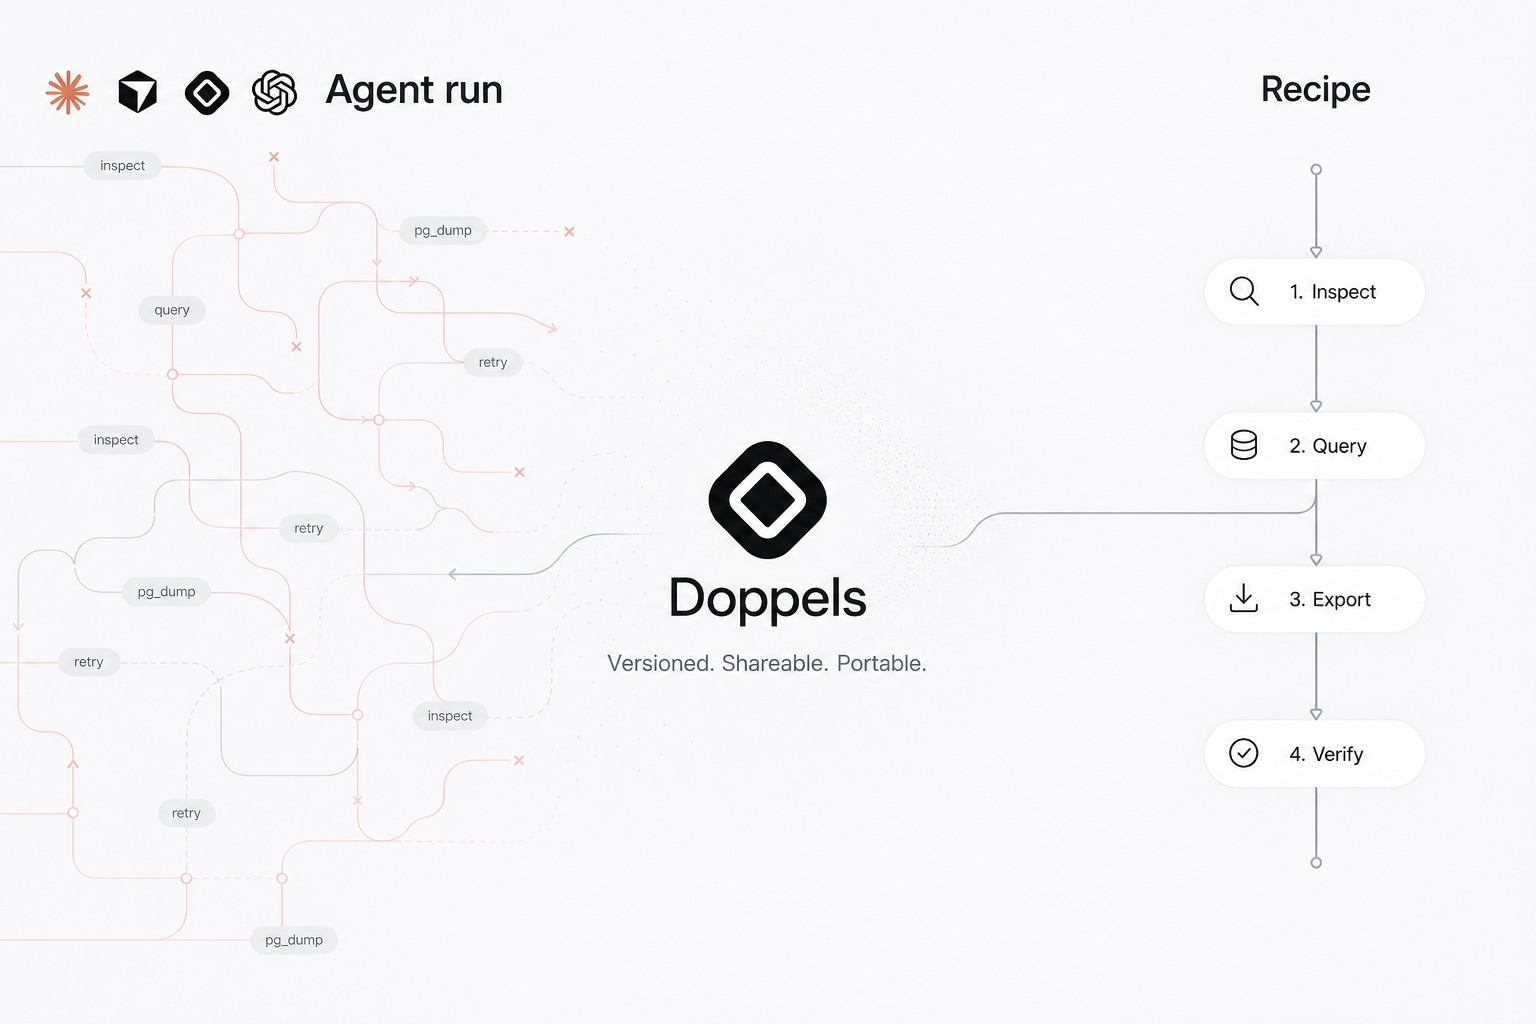
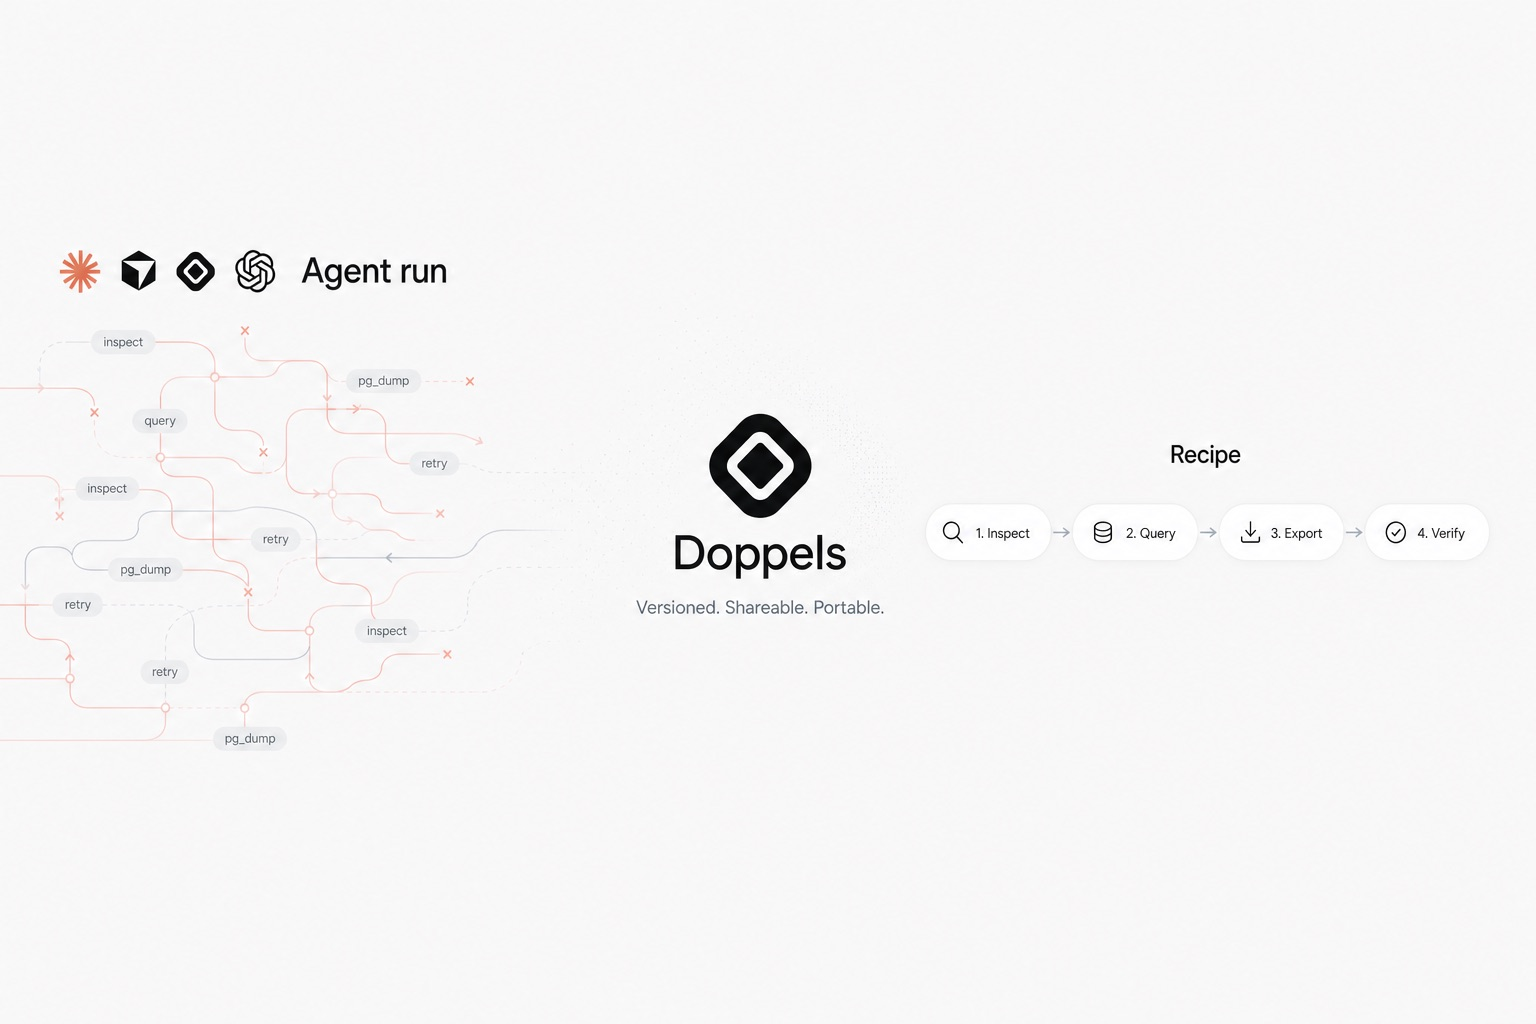
Docs/readme freeze replay (#29)
* docs: rewrite README for freeze and replay

Product README now shows Capability + Recipe, real install, and
docs.doppels.so links with diagrams for the full flow.

* docs: two-panel hero and Share as day-one

Hero is agent session plus local replay. Share copy matches GA, not preview.

* docs: swap README hero for freeze poster

* feat(cli): expose Share as public functionality

* docs: use horizontal Recipe-row README hero

---------

diff --git a/apps/cli/internal/command/listen.go b/apps/cli/internal/command/listen.go
@@ -56,8 +56,9 @@ func writeNodeUsage(writer io.Writer) {
 	fmt.Fprintln(writer, "On each Request: [a]pprove  [r]eject  [s]kip  [b]ackground")
 }
 
-// runListen attaches to Shares already created by this Identity (console or
-// `doppels share`). It never creates Shares — Share stays one-shot.
+// runListen powers `doppels node up`: it attaches to Shares already created by
+// this Identity (console or `doppels share`). It never creates Shares — Share
+// stays one-shot.
 func (app *App) runListen(arguments []string) int {
 	defaultServer := environmentValue(app.environment(), "DOPPELS_SERVER")
 	apiToken := environmentValue(app.environment(), "DOPPELS_API_TOKEN")
@@ -105,10 +106,10 @@ func (app *App) runListen(arguments []string) int {
 	server := flags.String("server", defaultServer, "Doppels control-plane URL")
 	pollEvery := flags.Duration("poll", 2*time.Second, "inbox poll interval")
 	approveAll := flags.Bool("yes", false, "auto-fulfill Requests and approve required Steps")
-	jsonOutput := flags.Bool("json", false, "emit machine-readable listen events on stdout")
-	org := flags.String("org", "", "Organization to listen on (default: current context)")
-	space := flags.String("space", "", "limit listening to one Space in the Organization")
-	capability := flags.String("capability", "", "limit listening to one Capability name")
+	jsonOutput := flags.Bool("json", false, "emit machine-readable Node events on stdout")
+	org := flags.String("org", "", "Organization to serve (default: current context)")
+	space := flags.String("space", "", "limit the Node to one Space in the Organization")
+	capability := flags.String("capability", "", "limit the Node to one Capability name")
 	var rawOutputs, rawEvidence namedValues
 	flags.Var(&rawOutputs, "output", "manual output as name=value (repeatable)")
 	flags.Var(&rawEvidence, "evidence", "manual evidence as name=value (repeatable)")
@@ -157,7 +158,7 @@ func (app *App) runListen(arguments []string) int {
 
 	scopeView, filters, registry, err := app.resolveListenScope(*server, apiToken, store, catalog, filters)
 	if err != nil {
-		fmt.Fprintf(app.Stderr, "resolve listen scope: %v\n", err)
+		fmt.Fprintf(app.Stderr, "resolve Node scope: %v\n", err)
 		return ExitOperational
 	}
 	scopeView.LocalTrees = index.localTrees()

diff --git a/apps/cli/internal/command/app_test.go b/apps/cli/internal/command/app_test.go
@@ -133,22 +133,43 @@ func TestNodeUpRequiresLogin(t *testing.T) {
 	}
 }
 
-func TestExperimentalHelpShowsNodeUpNotListen(t *testing.T) {
+func TestNodeUpHelpUsesNodeVocabulary(t *testing.T) {
+	root := t.TempDir()
+	app, _, stderr := testApp(root)
+	app.Environment = []string{"DOPPELS_API_TOKEN=test-token"}
+	if code := app.Run([]string{"node", "up", "--help"}); code != ExitContract {
+		t.Fatalf("node up --help exit = %d, stderr = %s", code, stderr.String())
+	}
+	out := stderr.String()
+	if strings.Contains(strings.ToLower(out), "listen") {
+		t.Fatalf("node up --help still uses retired listen vocabulary:\n%s", out)
+	}
+	if !strings.Contains(out, "Node events") {
+		t.Fatalf("node up --help missing Node event description:\n%s", out)
+	}
+}
+
+func TestHelpShowsPublicShareAndNodeWithoutExperimental(t *testing.T) {
 	root := t.TempDir()
 	app, stdout, stderr := testApp(root)
-	app.Environment = []string{"DOPPELS_EXPERIMENTAL=1"}
 	if code := app.Run([]string{"help"}); code != ExitSuccess {
 		t.Fatalf("help exit = %d, stderr = %s", code, stderr.String())
 	}
 	out := stdout.String()
+	if !strings.Contains(out, "doppels share capability/<name>[@ver]") {
+		t.Fatalf("help missing public share command:\n%s", out)
+	}
 	if !strings.Contains(out, "doppels node up") {
-		t.Fatalf("help missing node up:\n%s", out)
+		t.Fatalf("help missing public node up command:\n%s", out)
+	}
+	if !strings.Contains(out, "doppels login|logout|whoami") {
+		t.Fatalf("help missing public identity commands:\n%s", out)
 	}
 	if strings.Contains(out, "doppels listen") {
 		t.Fatalf("help still advertises listen:\n%s", out)
 	}
-	if !strings.Contains(out, "· Node") {
-		t.Fatalf("help missing Node section:\n%s", out)
+	if !strings.Contains(out, "\nShare\n") {
+		t.Fatalf("help missing Share section:\n%s", out)
 	}
 }
 

diff --git a/apps/cli/internal/command/app.go b/apps/cli/internal/command/app.go
@@ -154,6 +154,11 @@ func (app *App) usage(writer io.Writer) {
 		{"doppels tree [--json]", "Spaces → Capabilities → Recipes"},
 		{"doppels runs [list]|show|logs …", "history (default 20)"},
 	})
+	writeUsageSection(writer, style, "Share", []usageLine{
+		{"doppels share capability/<name>[@ver]", "create a public request link (--input · --yes)"},
+		{"doppels node up", "bring this host online · approve / reject / skip"},
+		{"doppels login|logout|whoami", "manage the Identity for shared requests"},
+	})
 	writeUsageSection(writer, style, "Tooling", []usageLine{
 		{"doppels update", "update to the latest release"},
 		{"doppels telemetry accept|reject|status", "anonymous product analytics"},
@@ -162,14 +167,7 @@ func (app *App) usage(writer io.Writer) {
 
 	if app.experimentalEnabled() {
 		fmt.Fprintln(writer, style.dim("Preview · Cloud"))
-		writeUsageSubsection(writer, style, "Node", []usageLine{
-			{"doppels node up", "this host online · approve / reject / skip inbox"},
-		})
-		writeUsageSubsection(writer, style, "Share", []usageLine{
-			{"doppels share capability/<name>[@ver]", "create share link (--input · --yes)"},
-		})
-		writeUsageSubsection(writer, style, "Identity", []usageLine{
-			{"doppels login|logout|whoami", "device login"},
+		writeUsageSubsection(writer, style, "Workspace", []usageLine{
 			{"doppels organizations|orgs [list]", "cloud Orgs"},
 			{"doppels org use · space use", "select Org / Space"},
 			{"doppels context [show]", "current binding"},

diff --git a/apps/cli/internal/command/listen_local.go b/apps/cli/internal/command/listen_local.go
@@ -220,7 +220,7 @@ func (index listenLocalIndex) resolve(capability, space string) (string, *manife
 	for _, entry := range matches {
 		names = append(names, entry.Label)
 	}
-	return "", nil, fmt.Errorf("Capability %q found in multiple local Spaces (%s); listen from one Space or narrow --space", capability, strings.Join(names, ", "))
+	return "", nil, fmt.Errorf("Capability %q found in multiple local Spaces (%s); run node up from one Space or narrow --space", capability, strings.Join(names, ", "))
 }
 
 func discoverNodeRoots(cwd string) ([]string, error) {

diff --git a/apps/cli/internal/command/run.go b/apps/cli/internal/command/run.go
@@ -191,7 +191,7 @@ func (app *App) runLocal(arguments []string) int {
 		runtimeStdout = prefixLines(runtimeStdout, "    ")
 	}
 	// Local run is operator-initiated: invoking the command is the grant.
-	// Share/listen still prompt (or require --yes) for Steps with approval: required.
+	// Share/Node fulfillment still prompts (or requires --yes) for Steps with approval: required.
 	options := execution.Options{
 		ApproveAll:  true,
 		Approve:     interaction.approve,

diff --git a/apps/cli/internal/project/project.go b/apps/cli/internal/project/project.go
@@ -365,7 +365,7 @@ func IsWorkingTree(path string) bool {
 	return isProjectRoot(path)
 }
 
-// DiscoverListenRoots resolves Project roots for doppels listen:
+// DiscoverListenRoots resolves Project roots for `doppels node up`:
 //  1. start itself is a Project → that root only
 //  2. else immediate child dirs with .doppels/ → Workspace siblings
 //  3. else FindRoot walk-up → single ancestor Project

diff --git a/apps/cli/internal/shareclient/types.go b/apps/cli/internal/shareclient/types.go
@@ -54,7 +54,7 @@ type PendingState struct {
 	Events  []execution.RunEvent     `json:"events"`
 }
 
-// InboxItem is a Share owned by the authenticated Identity for doppels listen.
+// InboxItem is a Share owned by the authenticated Identity for `doppels node up`.
 type InboxItem struct {
 	Share               Share `json:"share"`
 	HasRequest          bool  `json:"hasRequest"`

diff --git a/README.md b/README.md
@@ -30,7 +30,7 @@
 </p>
 
 <p align="center">
-  <img src="docs/images/hero-flow.jpg" alt="Agent run as failed paths; Doppels; Recipe as Inspect, Query, Export, Verify. Versioned. Shareable. Portable." width="100%">
+  <img src="docs/images/hero-flow.jpg" alt="Agent run as a tangle of failed paths; Doppels; Recipe as Inspect, Query, Export, Verify in a row. Versioned. Shareable. Portable." width="100%">
 </p>
 
 ## Quick start
@@ -207,7 +207,7 @@ Share is included from day one, free. Create a request link for a Capability:
 doppels share capability/postgres-backup
 ```
 
-The requester supplies the declared inputs. You review the request (`doppels listen`), approve it, and the Recipe runs in your environment. They receive the declared result.
+Keep `doppels share` running. When the requester supplies the declared inputs, the CLI presents the Request for review. You approve it, the Recipe runs in your environment, and they receive the declared result.
 
 > **They access the capability. Execution stays on your node.**
 
@@ -215,9 +215,11 @@ The request flow:
 
 1. You share a Capability link.
 2. The requester provides validated inputs.
-3. You inspect and approve the request.
+3. The sharing terminal presents the Request; you inspect and approve it.
 4. Your node executes the reviewed Recipe locally.
 5. The declared result is returned and the Run is recorded.
+
+For ongoing requests across the local catalog, sign in and bring the Node online with `doppels node up`.
 
 YAML also travels over Git: commit, clone, `doppels validate`, `doppels run`. Guide: [Share](https://docs.doppels.so/guides/sharing).
 

diff --git a/apps/cli/README.md b/apps/cli/README.md
@@ -60,8 +60,9 @@ invalid usage or contracts use exit 2.
 starts manual fulfillment; more than one requires `--recipe name[@version]`.
 Shell Steps run sequentially and in isolation. Values enter through declared
 environment mappings. Local `run` treats the operator invocation as the grant
-for Steps marked `approval: required` (no `--yes`). Share/listen still prompt
-or require `--yes` because the Request comes from someone else. Local records
+for Steps marked `approval: required` (no `--yes`). Shared Requests still prompt
+when handled by `doppels share` or `doppels node up`, unless `--yes` grants the
+required Steps. Local records
 live under `.doppels/runs/<run-id>` (request/run JSON, events,
 logs, artifacts). A SQLite index at `.doppels/runs.db` backs `runs list` and
 an offline outbox for future metadata sync; blobs stay on disk.
